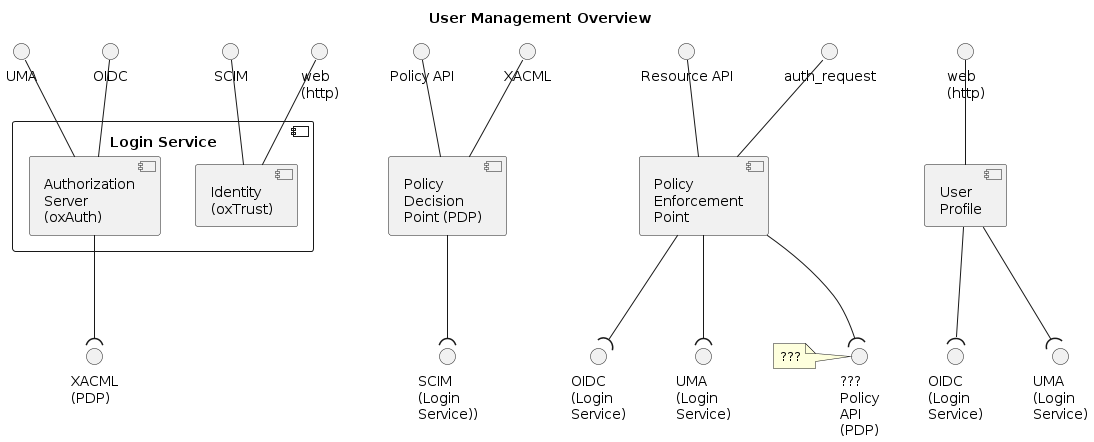
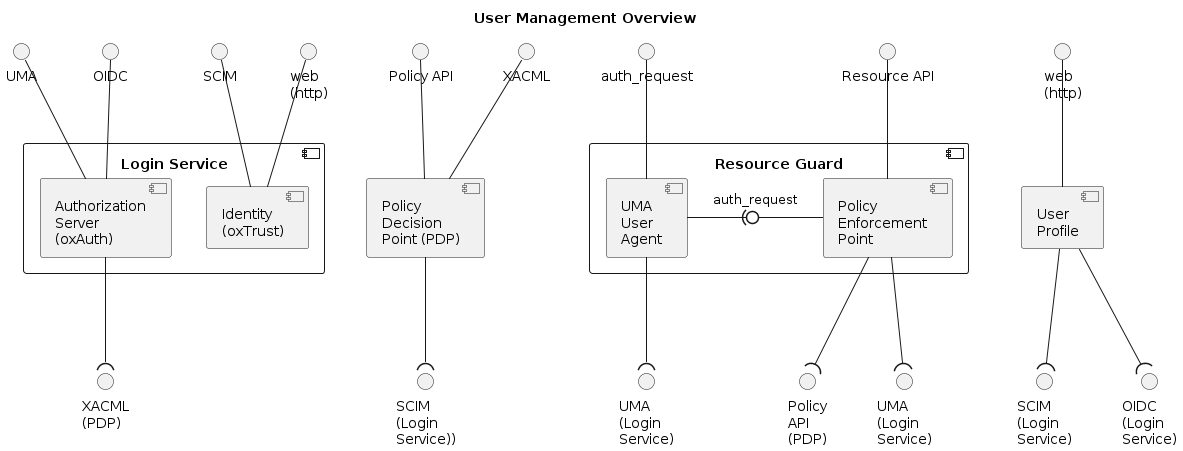
Add key interaction sequences for User Management

diff --git a/docs/iam/iam-overview.md b/docs/iam/iam-overview.md
@@ -1,10 +1,50 @@
 # Overview
 
-The User Management components are illustrated by the following deployment diagram:
-
-* PROVIDED interfaces above
-* REQUIRED interfaces below
+The User Management components are illustrated by the following deployment diagram, which shows **_Provided_** interfaces (above) and **_Required_** interfaces (below).
 
 ![User Management Building Blocks](../../img/iam/iam-deployment-overview.png)
 
-The [Login Service](login-service.md) provides an [OpenID Connection (OIDC)](login-service.md#openid-connection-oidc) interface for end-user authentication, a [User Managed Access (UMA)](login-service.md#user-managed-access-uma) interface for resource protection, and a [System for Cross-domain Identity Management (SCIM)](login-service.md#system-for-cross-domain-identity-management-scim) interface for management of user data.
+The [**Login Service**](login-service.md) provides an [OpenID Connection (OIDC)](login-service.md#openid-connection-oidc) interface for end-user authentication, a [User Managed Access (UMA)](login-service.md#user-managed-access-uma) interface for resource protection, and a [System for Cross-domain Identity Management (SCIM)](login-service.md#system-for-cross-domain-identity-management-scim) interface for lookup and management of user data. The Login Service interfaces with the PDP via XACML in support of the UMA authorization flow.
+
+The [**Policy Decision Point (PDP)**](pdp.md) provides a [Policy API](pdp.md#additional-information) for creation and management of authorization policies against resources, and a [XACML](pdp.md#extensible-access-control-markup-language-xacml) endpoint for validation (decision) of access requests against the defined policies. The PDP interfaces with the SCIM service to obtain user attributes in support of the authorization decision.
+
+The [**Resource Guard**](resource-guard.md) aggregates the _UMA User Agent_ and the _PEP_:
+
+* The [**UMA User Agent**](uma-user-agent.md) integrates with the Nginx request path to intercept and authorize access requests to resource servers (e.g. ADES) - by implementing the [Nginx `auth_request`](pep.md#nginx-auth_request) interface. The UMA User Agent handles the UMA flow to obtain the access token from the _Token Endpoint_ - the policy enforcement is handed off to the PEP via its `auth_request` interface;
+* The [**Policy Enforcement Point (PEP)**](pep.md#pep-policy-enforcement-point) provides a [Resources API](pep.md#resources-api) through which Resource Servers are able to register and manage their resources. The PEP interfaces with the Login Service for UMA flows for resource registration and policy enforcement, and with the PDP Policy API for resource policy registration.
+
+The [**User Profile**](user-profile.md) provides a web UI for users to manage their configuration within the platform. The User Profile interfaces with the OIDC service for user authentication and with the SCIM service to retrieve and manage user attributes.
+
+## Interactions
+
+The building block responsibilities and interactions are illustrated by sequence diagrams for key flows.
+
+### Resource Creation
+
+Resource creation is typically triggered by the Resource Servers that host the protected resources.
+
+![Resource Creation](../../img/iam/resource-creation.png)
+
+The Resource Server calls the Resources API of the PEP, providing the details of the resource to be registered.
+
+The PEP registers the resource via the UMA endpoint of the Login Service, which returns the UUID of the new resource.
+
+The PEP records the unique resource ID and its associated path in its local database, before registering the authorization policies for the resource/owner via the Policy API of the PDP.
+
+### Access Authorization
+
+Access to Resource Servers and their resources is protected by the Resource Guard, which integrates with Nginx to provide the authorization enforcement. Thus, the clients request is received by Nginx which proxies to the Resource Server based upon the advice of the Resource Guard.
+
+![Access Enforcement](../../img/iam/access-authorization-seq.png)
+
+The authorization request arrives at the UMA User Agent - initially without an access token [Relying Party Token (RPT)] - and is forwarded to the PEP for the authorization enforcement.
+
+The PEP uses the URI of the original request to lookup the resource in its local database to obtain the applicable unique resource ID. The PEP calls the Permission Endpoint of the Login Service to obtain an appropriate ticket matching the requested resource and scopes (based upon the request method).
+
+The ticket is returned to the UMA User Agent, which accesses the Token Endpoint of the Login Service to exchange the ticket for an access token (RPT).
+
+The Login Service calls the XACML Endpoint of the PDP to obtain a policy decision based upon the requesting user, the resource ID and the requested scopes. Following a successful decision, the Login Service returns the RPT (access token) to the UMA User Agent.
+
+The UMA User Agent repeats the enforcement request to the PEP, this time with the RPT. The PEP uses the Introspection Endpoint of the Login Service to check the validity of the RPT.
+
+The 'success' decision is returned via the UMA User Agent to Nginx, which continues to proxy the request and so delivers the protected resource to the Client.

diff --git a/docs/iam/pdp.md b/docs/iam/pdp.md
@@ -1,4 +1,4 @@
-# PDP - Policy Decision Point [TODO]
+# PDP - Policy Decision Point
 
 > The purpose of this section is to identify the building-block, its role in the architecture, and its relationship to the other building-blocks expressed through the interfaces it provides and consumes. The idea is to provide a singular entrypoint to the EOEPCA building-blocks.<br>
 > In the first instant, gather relevant information from existing docs/wikis where it exists, and collate here.<br>
@@ -16,6 +16,17 @@
 
 > Specification of interfaces provided by the component.<br>
 > Link to external specifications if applicable.
+
+### Policy API
+
+TODO
+
+### eXtensible Access Control Markup Language (XACML)
+
+* XACML REST Profile<br>
+  [http://docs.oasis-open.org/xacml/xacml-rest/v1.1/xacml-rest-v1.1.html](http://docs.oasis-open.org/xacml/xacml-rest/v1.1/xacml-rest-v1.1.html)
+* XACML JSON Profile<br>
+  [http://docs.oasis-open.org/xacml/xacml-json-http/v1.1/xacml-json-http-v1.1.html](http://docs.oasis-open.org/xacml/xacml-json-http/v1.1/xacml-json-http-v1.1.html)
 
 ## Dependencies
 

diff --git a/docs/iam/pep.md b/docs/iam/pep.md
@@ -1,4 +1,4 @@
-# PEP - Policy Enforcement Point [TODO]
+# PEP - Policy Enforcement Point
 
 > The purpose of this section is to identify the building-block, its role in the architecture, and its relationship to the other building-blocks expressed through the interfaces it provides and consumes. The idea is to provide a singular entrypoint to the EOEPCA building-blocks.<br>
 > In the first instant, gather relevant information from existing docs/wikis where it exists, and collate here.<br>
@@ -16,6 +16,14 @@
 
 > Specification of interfaces provided by the component.<br>
 > Link to external specifications if applicable.
+
+### Nginx `auth_request`
+
+TODO
+
+### Resources API
+
+TODO
 
 ## Dependencies
 

diff --git a/docs/iam/login-service.md b/docs/iam/login-service.md
@@ -1,4 +1,4 @@
-# Login Service [TODO]
+# Login Service
 
 > The purpose of this section is to identify the building-block, its role in the architecture, and its relationship to the other building-blocks expressed through the interfaces it provides and consumes. The idea is to provide a singular entrypoint to the EOEPCA building-blocks.<br>
 > In the first instant, gather relevant information from existing docs/wikis where it exists, and collate here.<br>

diff --git a/docs/iam/user-profile.md b/docs/iam/user-profile.md
@@ -1,4 +1,4 @@
-# User Profile [TODO]
+# User Profile
 
 > The purpose of this section is to identify the building-block, its role in the architecture, and its relationship to the other building-blocks expressed through the interfaces it provides and consumes. The idea is to provide a singular entrypoint to the EOEPCA building-blocks.<br>
 > In the first instant, gather relevant information from existing docs/wikis where it exists, and collate here.<br>
